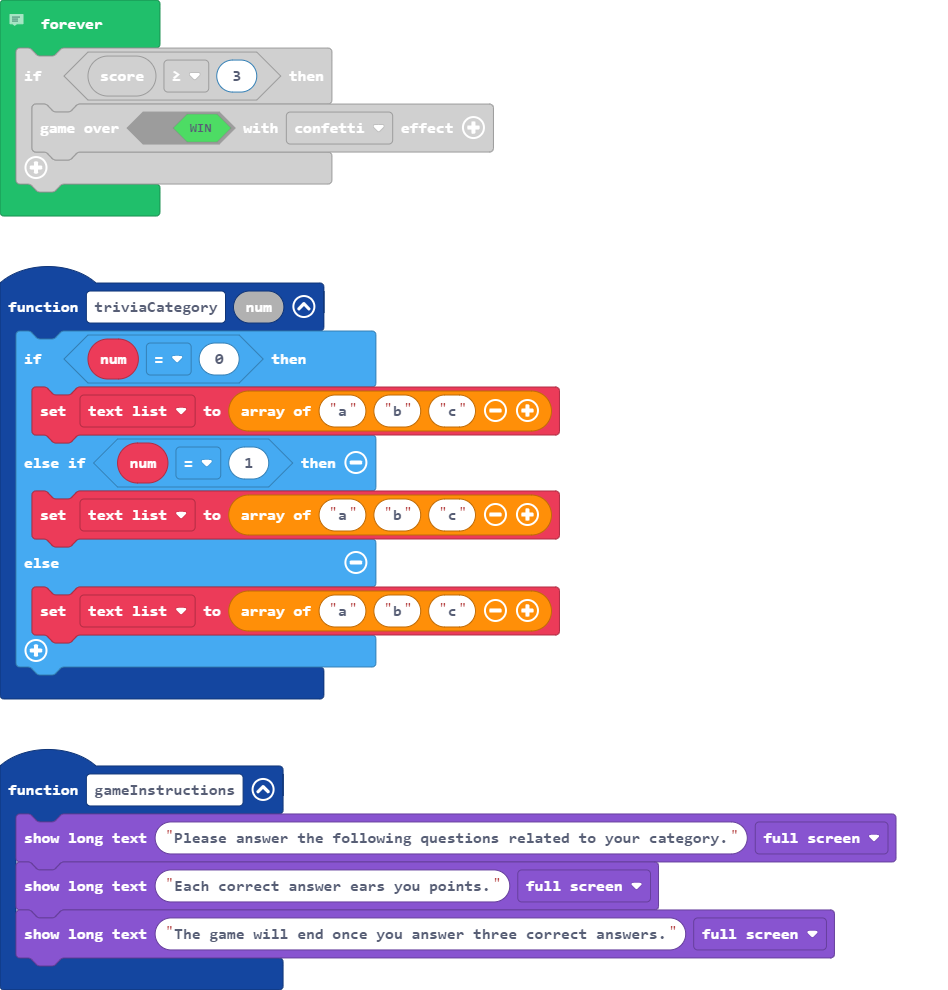
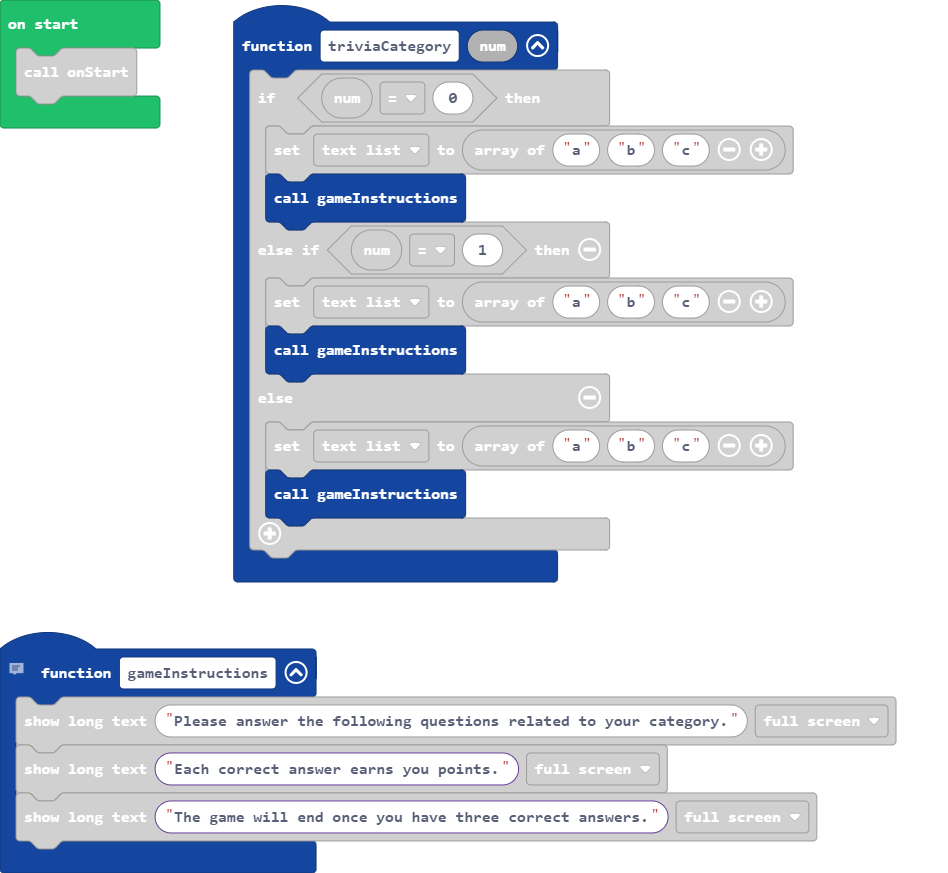
Update main.blocks, main.ts

diff --git a/main.ts b/main.ts
@@ -1,7 +1,9 @@
+// - This function decreases the complexity of the program. 
+// - Since each category will require the same instructions, this function allows for less code to be written and for it to be more easily altered in case of a change or error. 
 function gameInstructions () {
     game.showLongText("Please answer the following questions related to your category.", DialogLayout.Full)
-    game.showLongText("Each correct answer ears you points.", DialogLayout.Full)
-    game.showLongText("The game will end once you answer three correct answers.", DialogLayout.Full)
+    game.showLongText("Each correct answer earns you points.", DialogLayout.Full)
+    game.showLongText("The game will end once you have three correct answers.", DialogLayout.Full)
 }
 // - this function contains all the lines of code needed to initiate the game
 // - this shortens the code under the onStart block
@@ -28,14 +30,15 @@ function onStart () {
 function triviaCategory (num: number) {
     if (num == 0) {
         text_list = ["a", "b", "c"]
+        gameInstructions()
     } else if (num == 1) {
         text_list = ["a", "b", "c"]
+        gameInstructions()
     } else {
         text_list = ["a", "b", "c"]
+        gameInstructions()
     }
 }
-// - this code in this block is run when the game starts
-// - the only code here calls the onStart function which contains the code necessary to start the game. 
 let text_list: string[] = []
 let category = 0
 onStart()
